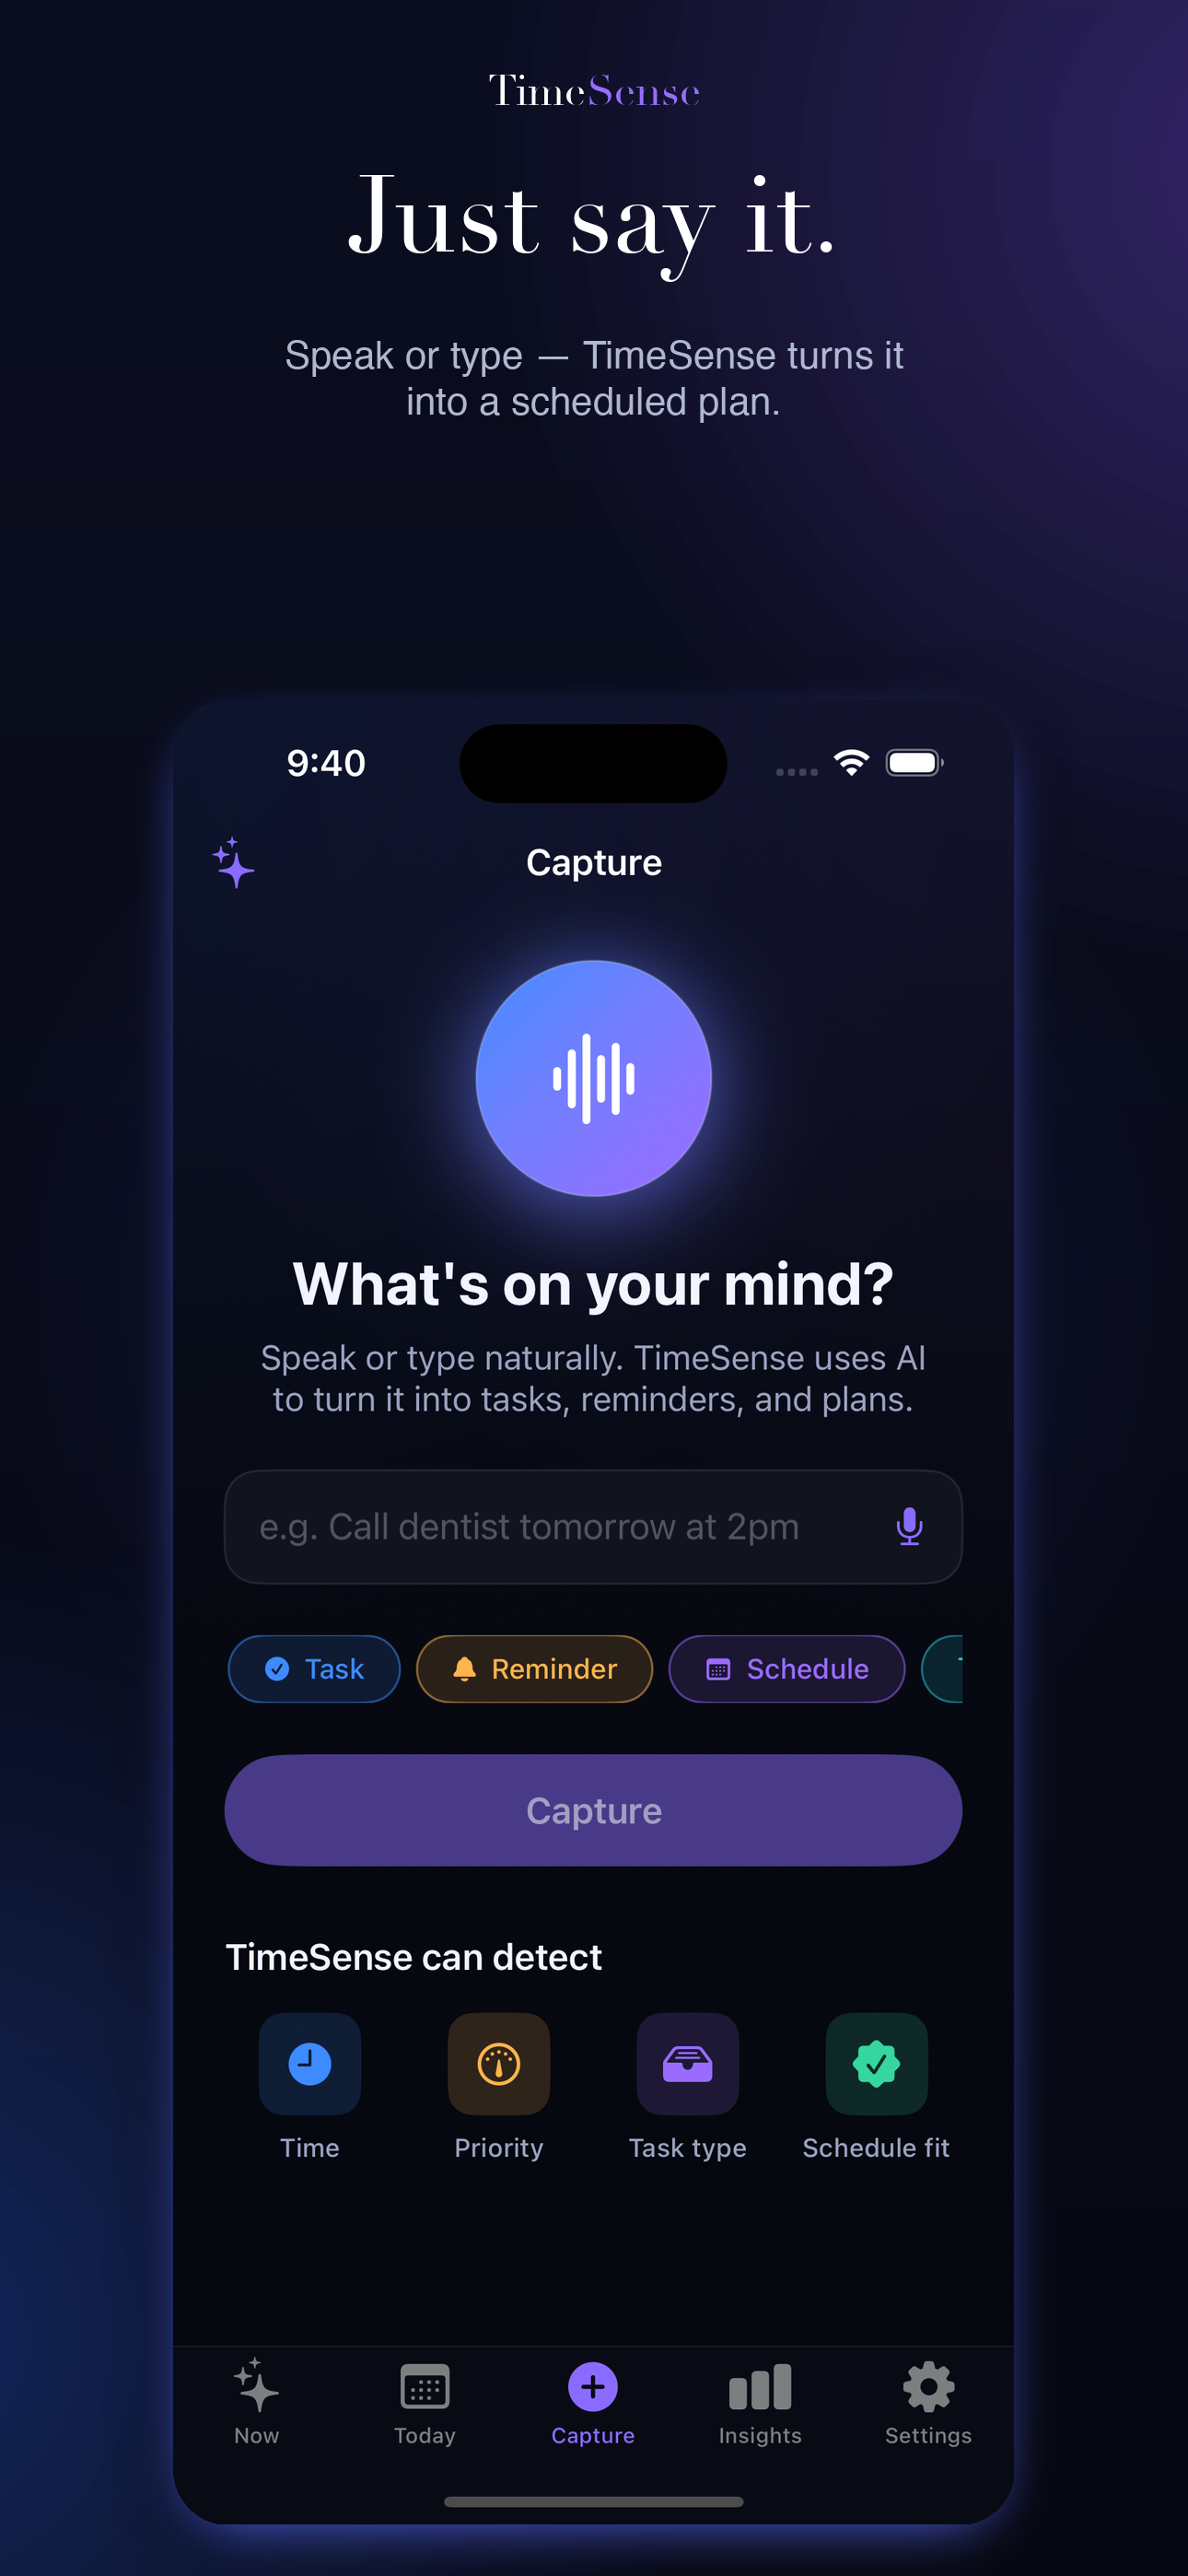
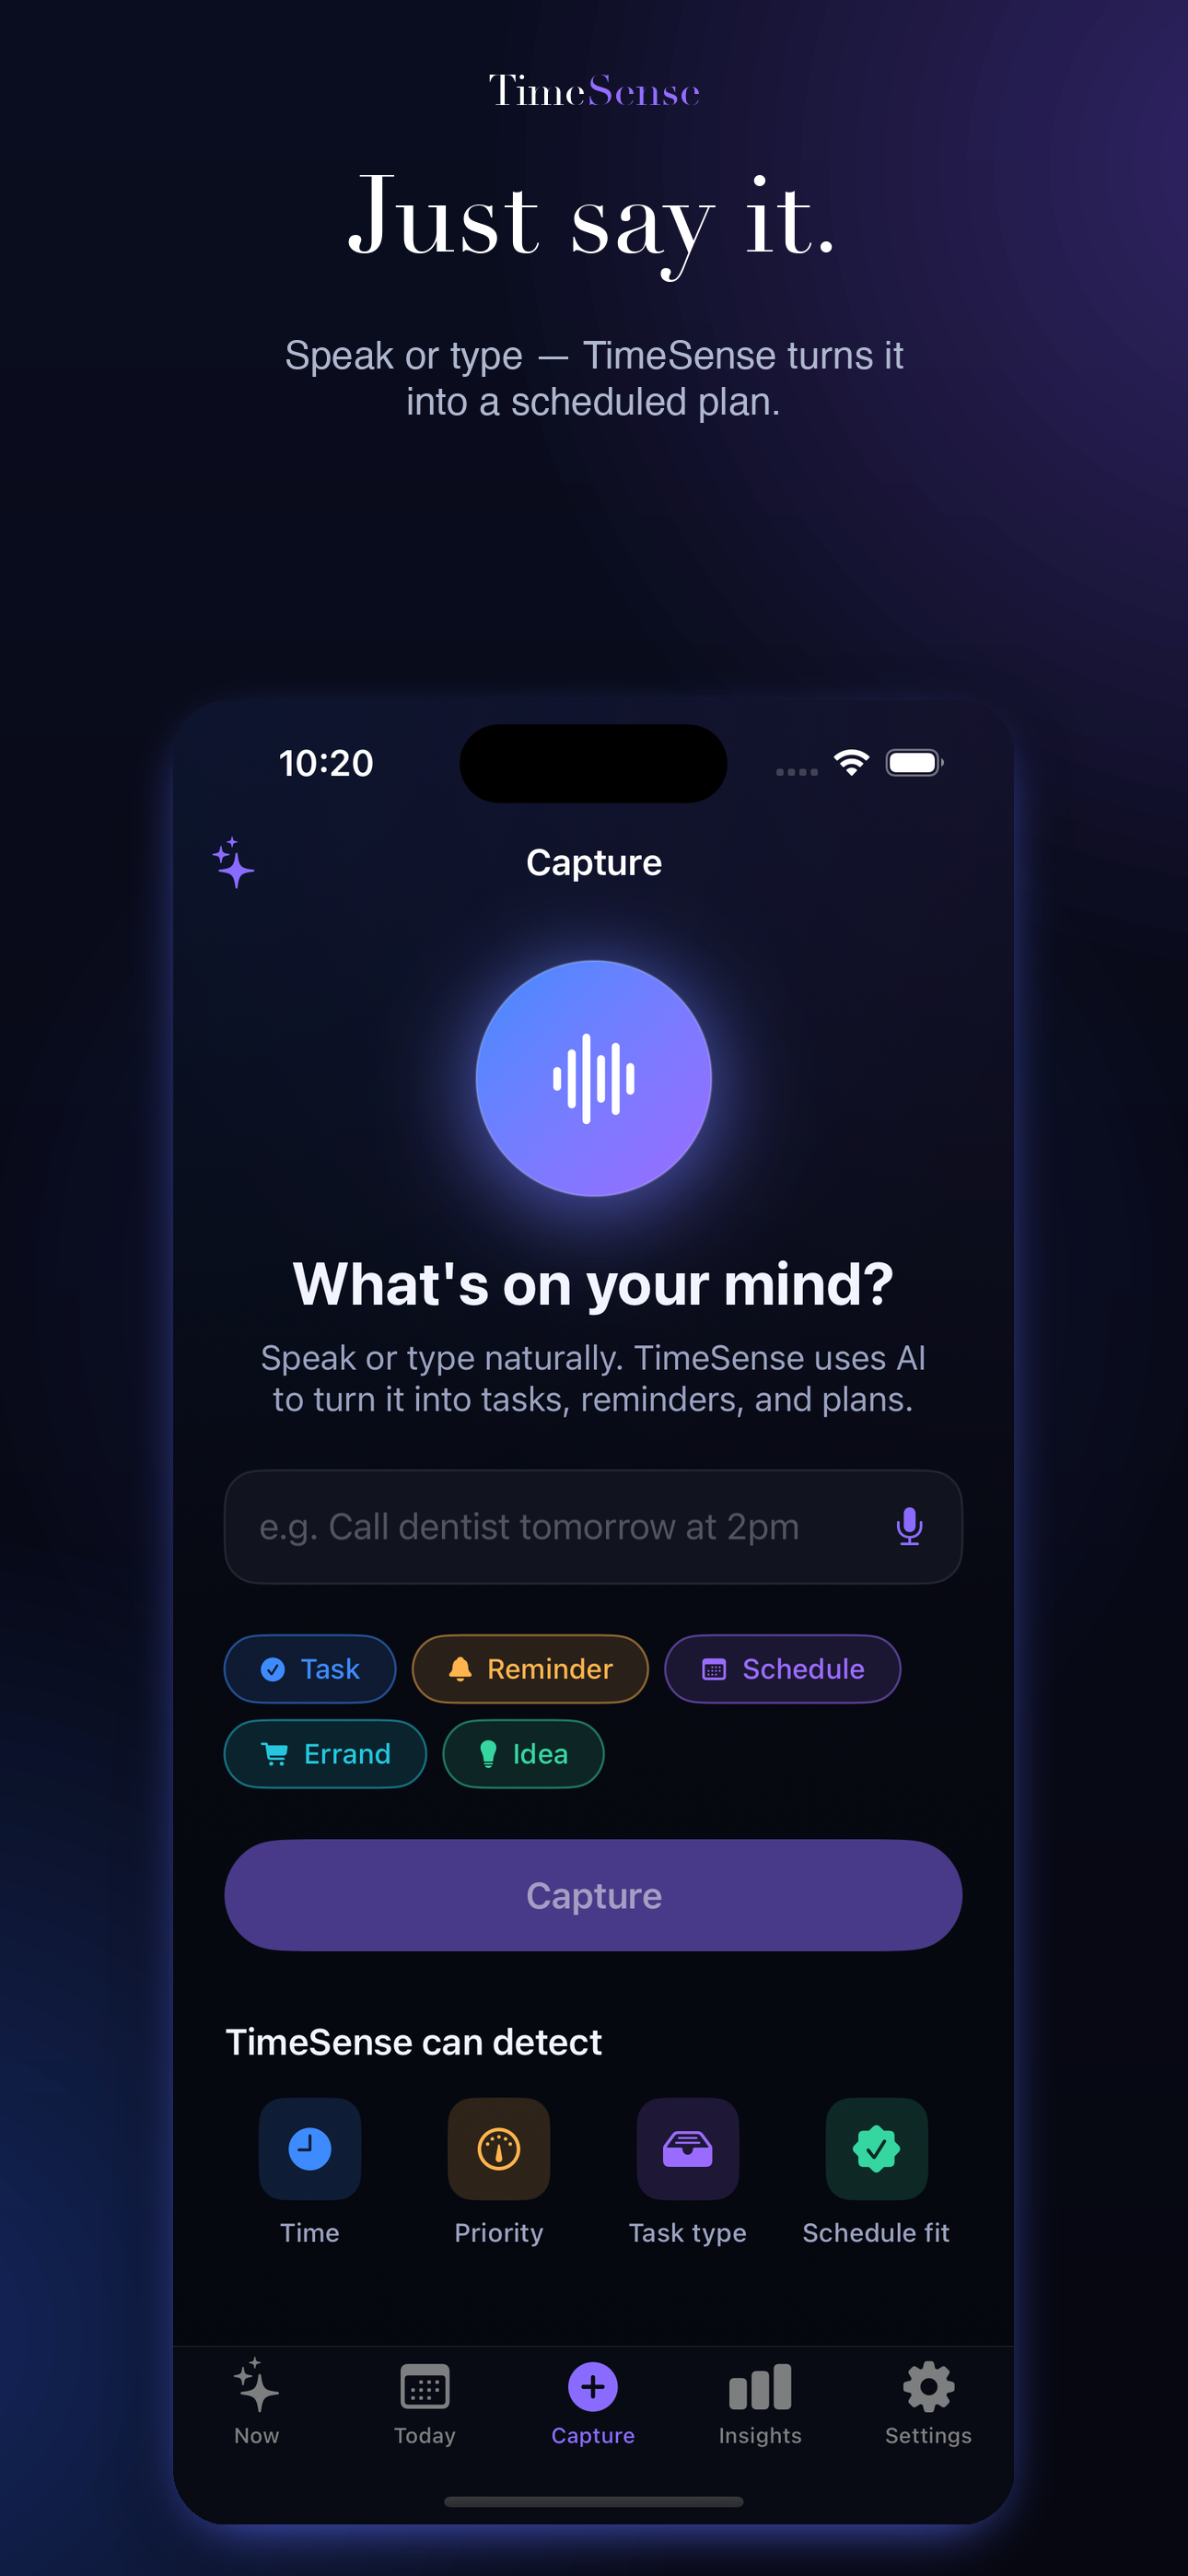
TIME-163: Capture chips — functional type hints + fixed wrapping bar (#157)
The chips now tag the capture with a type_hint that biases the parse
(Idea -> low priority, no schedule), sent to /capture. They also wrap to
two fully-visible rows via a new FlowLayout instead of scrolling
off-screen. Suite 421; verified via screenshot.

Changed region(s): [[0.186, 0.6223, 0.8062, 0.8712], [0.2481, 0.28, 0.3101, 0.3112]]

diff --git a/ios/TimeSense/Features/Capture/CaptureView.swift b/ios/TimeSense/Features/Capture/CaptureView.swift
@@ -129,29 +129,29 @@ struct CaptureView: View {
         )
     }
 
+    // A fixed, fully-visible chip row (wraps to 2 rows). Tapping one tags the capture with a type
+    // hint that biases how TimeSense parses it.
     private var chipsRow: some View {
-        ScrollView(.horizontal, showsIndicators: false) {
-            HStack(spacing: DesignTokens.Spacing.sm) {
-                ForEach(chips, id: \.label) { chip in
-                    let selected = selectedChip == chip.label
-                    Button {
-                        selectedChip = selected ? nil : chip.label
-                    } label: {
-                        HStack(spacing: 6) {
-                            Image(systemName: chip.icon).font(.caption2.weight(.semibold))
-                            Text(chip.label).font(DesignTokens.Typography.footnote.weight(.medium))
-                        }
-                        .foregroundColor(selected ? .white : chip.color)
-                        .padding(.horizontal, DesignTokens.Spacing.md)
-                        .padding(.vertical, DesignTokens.Spacing.sm)
-                        .background(Capsule().fill(selected ? chip.color : chip.color.opacity(0.14)))
-                        .overlay(Capsule().stroke(chip.color.opacity(selected ? 0 : 0.5), lineWidth: 1))
+        FlowLayout(spacing: DesignTokens.Spacing.sm) {
+            ForEach(chips, id: \.label) { chip in
+                let selected = selectedChip == chip.label
+                Button {
+                    selectedChip = selected ? nil : chip.label
+                } label: {
+                    HStack(spacing: 6) {
+                        Image(systemName: chip.icon).font(.caption2.weight(.semibold))
+                        Text(chip.label).font(DesignTokens.Typography.footnote.weight(.medium))
                     }
-                    .buttonStyle(.plain)
+                    .foregroundColor(selected ? .white : chip.color)
+                    .padding(.horizontal, DesignTokens.Spacing.md)
+                    .padding(.vertical, DesignTokens.Spacing.sm)
+                    .background(Capsule().fill(selected ? chip.color : chip.color.opacity(0.14)))
+                    .overlay(Capsule().stroke(chip.color.opacity(selected ? 0 : 0.5), lineWidth: 1))
                 }
+                .buttonStyle(.plain)
             }
-            .padding(.horizontal, 2)
         }
+        .frame(maxWidth: .infinity, alignment: .leading)
     }
 
     private var captureButton: some View {
@@ -230,7 +230,7 @@ struct CaptureView: View {
 
     private func submitCapture() async {
         let text = captureText
-        await viewModel.submit(rawInput: text)
+        await viewModel.submit(rawInput: text, typeHint: selectedChip)
         if case .success = viewModel.uiState {
             captureText = ""
             selectedChip = nil

diff --git a/ios/TimeSense/Core/Design/CosmicComponents.swift b/ios/TimeSense/Core/Design/CosmicComponents.swift
@@ -129,3 +129,32 @@ extension View {
         modifier(HeroCardChrome(glow: glow))
     }
 }
+
+/// A simple flowing layout that wraps its subviews onto new rows — keeps a chip row fully visible
+/// (no horizontal scroll) instead of clipping items off-screen.
+struct FlowLayout: Layout {
+    var spacing: CGFloat = 8
+
+    func sizeThatFits(proposal: ProposedViewSize, subviews: Subviews, cache: inout Void) -> CGSize {
+        let maxWidth = proposal.width ?? .infinity
+        var x: CGFloat = 0, y: CGFloat = 0, rowHeight: CGFloat = 0
+        for sv in subviews {
+            let s = sv.sizeThatFits(.unspecified)
+            if x + s.width > maxWidth && x > 0 { x = 0; y += rowHeight + spacing; rowHeight = 0 }
+            x += s.width + spacing
+            rowHeight = max(rowHeight, s.height)
+        }
+        return CGSize(width: maxWidth == .infinity ? x : maxWidth, height: y + rowHeight)
+    }
+
+    func placeSubviews(in bounds: CGRect, proposal: ProposedViewSize, subviews: Subviews, cache: inout Void) {
+        var x = bounds.minX, y = bounds.minY, rowHeight: CGFloat = 0
+        for sv in subviews {
+            let s = sv.sizeThatFits(.unspecified)
+            if x + s.width > bounds.maxX && x > bounds.minX { x = bounds.minX; y += rowHeight + spacing; rowHeight = 0 }
+            sv.place(at: CGPoint(x: x, y: y), proposal: ProposedViewSize(s))
+            x += s.width + spacing
+            rowHeight = max(rowHeight, s.height)
+        }
+    }
+}

diff --git a/ios/TimeSense/Features/Capture/CaptureViewModel.swift b/ios/TimeSense/Features/Capture/CaptureViewModel.swift
@@ -18,10 +18,12 @@ struct CapturedTask: Decodable {
 private struct CaptureRequest: Encodable {
     let rawInput: String
     let userTimezone: String
+    let typeHint: String?
 
     enum CodingKeys: String, CodingKey {
         case rawInput = "raw_input"
         case userTimezone = "user_timezone"
+        case typeHint = "type_hint"
     }
 }
 
@@ -38,14 +40,14 @@ final class CaptureViewModel: ObservableObject {
 
     private let api = APIClient.shared
 
-    func submit(rawInput: String) async {
+    func submit(rawInput: String, typeHint: String? = nil) async {
         guard !rawInput.trimmingCharacters(in: .whitespacesAndNewlines).isEmpty else { return }
         uiState = .loading
         let timezone = TimeZone.current.identifier
         do {
             let task: CapturedTask = try await api.post(
                 "/api/v1/capture",
-                body: CaptureRequest(rawInput: rawInput, userTimezone: timezone)
+                body: CaptureRequest(rawInput: rawInput, userTimezone: timezone, typeHint: typeHint)
             )
             uiState = .success(title: task.title)
         } catch let error as APIError {

diff --git a/backend/app/services/capture_service.py b/backend/app/services/capture_service.py
@@ -41,18 +41,33 @@ Rules:
 """
 
 
+# Optional per-capture type hints from the Capture chips — bias the parse toward the user's intent.
+_HINT_GUIDANCE = {
+    "task": "Treat it as a concrete to-do.",
+    "reminder": "Treat it as a time-sensitive reminder; capture any time as scheduled_start.",
+    "schedule": "Treat it as a calendar event; set scheduled_start when a time is given.",
+    "errand": "Treat it as a location-based errand (something done at a place).",
+    "idea": "Treat it as a low-priority someday idea — no deadline or scheduled time.",
+}
+
+
 class CaptureService:
     def __init__(self, gateway: LLMGateway) -> None:
         self._gateway = gateway
 
-    async def parse(self, raw_input: str, user_timezone: str = "UTC") -> TaskCreate:
+    async def parse(
+        self, raw_input: str, user_timezone: str = "UTC", type_hint: str | None = None
+    ) -> TaskCreate:
         # Deterministic extraction runs regardless — it reliably handles the common phrasings
         # ("today at 5pm", "July 5th") that the LLM sometimes drops, and fills any gaps below.
         rb_start, rb_due, rb_title = parse_datetime(raw_input, user_timezone=user_timezone)
 
+        hint = _HINT_GUIDANCE.get((type_hint or "").lower())
+        hint_line = f"\nThe user tagged this as a {type_hint}. {hint}\n" if hint else ""
         prompt = (
             f"Today's UTC date and time: {datetime.now(timezone.utc).isoformat()}\n"
-            f"User timezone: {user_timezone}\n\n"
+            f"User timezone: {user_timezone}\n"
+            f"{hint_line}\n"
             f"Raw input: {raw_input}"
         )
         try:
@@ -71,6 +86,11 @@ class CaptureService:
             scheduled_start, due_at, estimated, title, priority = (
                 rb_start, rb_due, None, rb_title[:500], 3
             )
+
+        # An "Idea" is a someday capture — never urgent, never auto-scheduled.
+        if (type_hint or "").lower() == "idea":
+            priority = 5
+            scheduled_start = None
 
         # A "do it at 5pm" gets a concrete block; give it a length so it lands on the timeline.
         scheduled_end = (

diff --git a/backend/tests/test_capture_hint.py b/backend/tests/test_capture_hint.py
@@ -1,0 +1,19 @@
+"""TIME-163 — capture type_hint biases the parse (Idea -> low priority)."""
+import pytest
+from app.services.capture_service import CaptureService
+from app.llm.gateway import get_llm_gateway
+
+
[email redacted]
+async def test_idea_hint_forces_low_priority_and_no_schedule():
+    svc = CaptureService(get_llm_gateway())
+    tc = await svc.parse("build a personal website someday", user_timezone="UTC", type_hint="Idea")
+    assert tc.priority == 5
+    assert tc.scheduled_start is None
+
+
[email redacted]
+async def test_no_hint_is_unchanged():
+    svc = CaptureService(get_llm_gateway())
+    tc = await svc.parse("buy milk", user_timezone="UTC", type_hint=None)
+    assert tc.title  # still parses

diff --git a/scripts/create_jira_tickets.py b/scripts/create_jira_tickets.py
@@ -8495,6 +8495,25 @@ TICKETS = [
             divider(), h2("Next Ticket"), p("6.9\" screenshots; App Store Connect upload."),
         ),
     },
+
+    {
+        "summary": "TIME-163: Capture chips — functional type hints + fixed wrapping bar",
+        "labels": ["ios", "backend", "capture", "ux"],
+        "description": doc(
+            h2("Goal"), p("The Capture chips (Task/Reminder/Schedule/Errand/Idea) did nothing and scrolled off-screen. Make them functional (bias the parse) and fully visible (no horizontal scroll)."),
+            divider(), h2("Scope"), bullet_list([
+                "Backend: /capture accepts optional type_hint; CaptureService.parse injects it into the LLM prompt (per-type guidance) and forces Idea -> priority 5, no schedule",
+                "iOS: CaptureRequest/submit carry typeHint (the selected chip); chips row uses a FlowLayout (wraps to 2 rows, fully visible) instead of a horizontal scroll",
+                "New FlowLayout (Layout protocol) in CosmicComponents",
+            ]),
+            divider(), h2("Non-Goals"), bullet_list(["No multi-select; hint is a soft bias, not a hard override"]),
+            divider(), h2("Files Likely Changed"), bullet_list(["backend: api/v1/capture.py, services/capture_service.py; ios: Features/Capture/CaptureView.swift, CaptureViewModel.swift, Core/Design/CosmicComponents.swift; tests"]),
+            divider(), h2("Acceptance Criteria"), bullet_list(["Selecting a chip changes the parse (Idea -> low priority); all 5 chips visible without scrolling; suite + iOS build pass"]),
+            divider(), h2("Verification"), code_block("cd backend && pytest tests/test_capture_hint.py -v"),
+            divider(), h2("Dependencies"), p("TIME-162 (coloured chips)."),
+            divider(), h2("Next Ticket"), p("6.9\" screenshots; App Store Connect upload."),
+        ),
+    },
 ]
 
 

diff --git a/backend/app/api/v1/capture.py b/backend/app/api/v1/capture.py
@@ -23,6 +23,7 @@ router = APIRouter(prefix="/capture", tags=["capture"])
 class CaptureRequest(BaseModel):
     raw_input: str = Field(..., min_length=1, max_length=2000)
     user_timezone: str = Field(default="UTC", max_length=64)
+    type_hint: str | None = Field(default=None, max_length=20)
 
 
 @router.post(
@@ -41,7 +42,7 @@ async def capture(
         current_user.uid, current_user.email or ""
     )
     parser = CaptureService(gateway)
-    task_create = await parser.parse(body.raw_input, user_timezone=body.user_timezone)
+    task_create = await parser.parse(body.raw_input, user_timezone=body.user_timezone, type_hint=body.type_hint)
 
     # Every task gets a realistic duration: the LLM's explicit estimate wins; otherwise fall back to
     # the duration lookup table (seed defaults, refined by what we've learned about this user).

diff --git a/docs/project_memory/implementation_log.md b/docs/project_memory/implementation_log.md
@@ -1,5 +1,8 @@
 # Implementation Log
 
+## 2026-07-09 — TIME-163 (Jira TIME-163): Capture chips functional + fixed wrap
+
+The chips previously set selectedChip but it was never sent (decorative). Now functional + fixed. Backend: CaptureRequest.type_hint (optional, <=20); capture endpoint passes it; CaptureService.parse(type_hint) injects _HINT_GUIDANCE[hint] into the prompt (task/reminder/schedule/errand/idea guidance) and forces Idea -> priority 5 + scheduled_start None. iOS: CaptureRequest/submit carry typeHint; submitCapture passes selectedChip; chipsRow -> FlowLayout (new Layout in CosmicComponents: sizeThatFits/placeSubviews wrap rows) so all 5 chips wrap to 2 rows fully visible (was ScrollView(.horizontal) that clipped Errand/Idea). Tests: test_capture_hint (Idea->prio5,no schedule). Suite 421. Regenerated 03_capture App Store frame (2-row chips). iOS BUILD SUCCEEDED; verified via screenshot.
 ## 2026-07-09 — TIME-162 (Jira TIME-162): Multi-colour Capture + Insights
 
 User: Capture + Insights were basically purple + white on dark. Capture: chips array -> (label, icon, color) with Task=blue, Reminder=amber, Schedule=violet, Errand=cyan, Idea=green (icon + colour, selected fills colour); detectors -> (icon,label,color) rendered as tinted rounded icon tiles (Time blue, Priority amber, Task type violet, Schedule fit green). Insights gate: InsightPreviewCard gains tint (title colour); LinePreview/BarsPreview/RingPreview gain a color param (glowing charts, bar gradient); the 4 cards -> blue line / amber bars / green ring / violet ring; lockBanner -> LinearGradient(blue->violet) + lock in a white .18 circle chip + violet glow (was flat purple). Regenerated App Store frames 03_capture + 05_insights. Verified via sim screenshots (multi-colour). iOS BUILD SUCCEEDED.

diff --git a/CHANGELOG.md b/CHANGELOG.md
@@ -17,6 +17,7 @@ Format: `[DATE] TIME-### Short description`
 
 ### Fixes
 
+- [2026-07-09] TIME-163: The Capture chips now do something — tapping one (Task/Reminder/Schedule/Errand/Idea) tags your capture so TimeSense parses it that way (e.g. Idea = low-priority, no deadline). They're also fully visible now (wrap to two rows) instead of scrolling off-screen
 - [2026-07-09] TIME-162: Capture and Insights are no longer mono-purple — Capture chips and detectors now use distinct colours + icons (blue/amber/violet/cyan/green), and each Insights card has its own accent with a glowing chart
 - [2026-07-09] TIME-161: Added App Store marketing screenshots (5 frames, 1290×2796) — real cosmic-themed app screens with Didot serif headlines, plus a reproducible build script
 - [2026-07-09] TIME-160: TimeSense now senses when you've been sitting a while (inferred from your step activity) and nudges a short walk — 'You've been sitting for 82 min, a short walk will reset your focus' — with the sitting time also shown on the Energy card